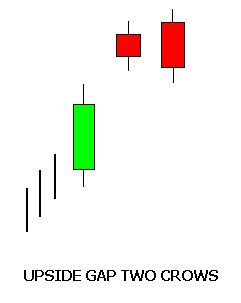
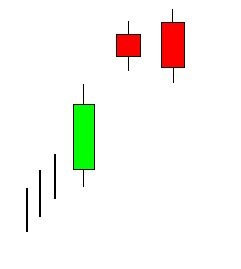
Fix CDL issues

diff --git a/src/charts/indicators/highcharts_custom/cdl3blackcrows.js b/src/charts/indicators/highcharts_custom/cdl3blackcrows.js
@@ -4,42 +4,30 @@
 define(['indicator_base', 'highstock'], function (indicatorBase) {
 
     var cdl3blackcrowsOptionsMap = {}, cdl3blackcrowsSeriesMap = {};
-	
+    var candleMediumHeight = 0;
+
 	function calculateIndicatorValue(data, index) {
-		var candleOne_Index = index, 
+	    var candleOne_Index = index,
 			candleTwo_Index = index - 1,
-			candleThree_Index = index - 2,
-			candleFour_Index = index - 3;
+			candleThree_Index = index - 2;
 		
-		var candleFour_Open = indicatorBase.extractPriceForAppliedTO(indicatorBase.OPEN, data, candleFour_Index),
-			candleFour_Close = indicatorBase.extractPriceForAppliedTO(indicatorBase.CLOSE, data, candleFour_Index),
-			candleThree_Open = indicatorBase.extractPriceForAppliedTO(indicatorBase.OPEN, data, candleThree_Index),
+		var candleThree_Open = indicatorBase.extractPriceForAppliedTO(indicatorBase.OPEN, data, candleThree_Index),
 			candleThree_Close = indicatorBase.extractPriceForAppliedTO(indicatorBase.CLOSE, data, candleThree_Index),
 			candleTwo_Open = indicatorBase.extractPriceForAppliedTO(indicatorBase.OPEN, data, candleTwo_Index),
 			candleTwo_Close = indicatorBase.extractPriceForAppliedTO(indicatorBase.CLOSE, data, candleTwo_Index),
 			candleOne_Open = indicatorBase.extractPriceForAppliedTO(indicatorBase.OPEN, data, candleOne_Index),
 			candleOne_Close = indicatorBase.extractPriceForAppliedTO(indicatorBase.CLOSE, data, candleOne_Index);
 		
-		var isCandleFour_Bullish = candleFour_Close > candleFour_Open,
-			isCandleFour_Bearish = candleFour_Close < candleFour_Open,
-			isCandleThree_Bullish = candleThree_Close > candleThree_Open,
-			isCandleThree_Bearish = candleThree_Close < candleThree_Open,
-			isCandleTwo_Bullish = candleTwo_Close > candleTwo_Open,
+		var	isCandleThree_Bearish = candleThree_Close < candleThree_Open,
 			isCandleTwo_Bearish = candleTwo_Close < candleTwo_Open,
-			isCandleOne_Bullish = candleOne_Close > candleOne_Open,
 			isCandleOne_Bearish = candleOne_Close < candleOne_Open;
 			
-		var isBearishContinuation = isCandleFour_Bullish
-					&& isCandleThree_Bearish 
-					&& isCandleTwo_Bearish && (candleTwo_Open > candleThree_Close && candleTwo_Open < candleThree_Open && candleTwo_Close < candleThree_Close)
-					&& isCandleOne_Bearish && (candleOne_Open > candleTwo_Close && candleOne_Open < candleTwo_Open && candleOne_Close < candleTwo_Close)
-					;
-											
-		var isBullishContinuation = isCandleFour_Bearish
-					&& isCandleThree_Bullish 
-					&& isCandleTwo_Bullish && (candleTwo_Open < candleThree_Close && candleTwo_Open > candleThree_Open && candleTwo_Close > candleThree_Close)
-					&& isCandleOne_Bullish && (candleOne_Open < candleTwo_Close && candleOne_Open > candleTwo_Open && candleOne_Close > candleTwo_Close)
-					;
+		var isBearishContinuation = isCandleThree_Bearish && (Math.abs(candleThree_Close - candleThree_Open) > candleMediumHeight)
+					                && isCandleTwo_Bearish && (Math.abs(candleTwo_Close - candleTwo_Open) > candleMediumHeight) && (candleTwo_Open >= candleThree_Close && candleTwo_Open < candleThree_Open && candleTwo_Close < candleThree_Close)
+					                && isCandleOne_Bearish && (Math.abs(candleOne_Close - candleOne_Open) > candleMediumHeight) && (candleOne_Open >= candleTwo_Close && candleOne_Open < candleTwo_Open && candleOne_Close < candleTwo_Close);
+
+        //It's a bearish cadnlestick
+		var isBullishContinuation = false
 		
 		return {
 			isBullishContinuation : isBullishContinuation,
@@ -62,10 +50,6 @@ define(['indicator_base', 'highstock'], function (indicatorBase) {
                     //Merge the options
                     var seriesID = this.options.id;
                     cdl3blackcrowsOptions = $.extend({
-                        //stroke : 'red',
-                        //strokeWidth : 2,
-                        //dashStyle : 'line',
-                        //levels : [],
                         parentSeriesID : seriesID
                     }, cdl3blackcrowsOptions);
 
@@ -81,6 +65,7 @@ define(['indicator_base', 'highstock'], function (indicatorBase) {
                          * Formula(OHLC or Candlestick) -
                             Refer to dl2crows.html for detailed information on this indicator
                          */
+                        candleMediumHeight = indicatorBase.getCandleMediumHeight(data);
                         var cdl3blackcrowsData = [];
                         for (var index = 3; index < data.length; index++)
                         {
@@ -119,12 +104,6 @@ define(['indicator_base', 'highstock'], function (indicatorBase) {
                             name: 'CDL3BLACKCROWS',
                             data: cdl3blackcrowsData,
                             type: 'flags',
-                            //dataGrouping: series.options.dataGrouping,
-                            //yAxis: 'cdl3blackcrows'+ uniqueID,
-                            //opposite: series.options.opposite,
-                            //color: cdl3blackcrowsOptions.stroke,
-                            //lineWidth: cdl3blackcrowsOptions.strokeWidth,
-                            //dashStyle: cdl3blackcrowsOptions.dashStyle,
 							onSeries: seriesID,
 							shape: 'flag',
 							turboThreshold: 0
@@ -209,7 +188,6 @@ define(['indicator_base', 'highstock'], function (indicatorBase) {
                             if (dataPointIndex >= 1) {
                                 //Calculate CDL3BLACKCROWS - start
 								var bull_bear = calculateIndicatorValue(data, dataPointIndex);
-                                //console.log('Roc : ' + cdl3blackcrowsValue);
                                 //Calculate CDL3BLACKCROWS - end
 								var bullBearData = null;
 								if (bull_bear.isBullishContinuation) {

diff --git a/src/charts/indicators/highcharts_custom/cdlupsidegap2crows.js b/src/charts/indicators/highcharts_custom/cdlupsidegap2crows.js
@@ -28,9 +28,9 @@ define(['indicator_base', 'highstock'], function (indicatorBase) {
 
        
         var isBullishContinuation = isCandleThree_Bullish
-                                    && isCandleTwo_Bearish && candleTwo_Close > Math.max(candleThree_Close, candleThree_Open) && candleTwo_Open > Math.max(candleThree_Close, candleThree_Open)// black candle with a body gapping above the prior candle's body.
-                                    && isCandleOne_Bearish && candleOne_Close < candleTwo_Close && candleOne_Open > candleTwo_Open //opening higher than the Day 2 open, but closing below the Day 2 close
-                                    && candleOne_Close > candleThree_Close;// and above the Day 1 close
+                                    && isCandleTwo_Bearish && (candleTwo_Close > Math.max(candleThree_Close, candleThree_Open)) && (candleTwo_Open > Math.max(candleThree_Close, candleThree_Open))// black candle with a body gapping above the prior candle's body.
+                                    && isCandleOne_Bearish && (candleOne_Close < candleTwo_Close && candleOne_Open > candleTwo_Open) //opening higher than the Day 2 open, but closing below the Day 2 close
+                                    && (candleOne_Close > candleThree_Close);// and above the Day 1 close
 
 
         //var isBearishContinuation = isCandleThree_Bearish
@@ -73,27 +73,18 @@ define(['indicator_base', 'highstock'], function (indicatorBase) {
                          * Formula(OHLC or Candlestick) -
                          */
                         var cdlupsidegap2crowsData = [];
-                        for (var index =2 ; index < data.length; index++) {
-                            
+                        for (var index = 2 ; index < data.length; index++) {
+
                             //Calculate CDLUPSIDEGAP2CROWS - start
                             var bull_bear = calculateIndicatorValue(data, index);
-							
+
                             if (bull_bear.isBullishContinuation) {
                                 cdlupsidegap2crowsData.push({
                                     x: data[index].x || data[index][0],
-                                    title: '<span style="color : blue">GTC</span>',
+                                    title: '<span style="color : blue">UGTC</span>',
                                     text: 'Upside Gap Two Crows : Bull'
                                 });
                             };
-                            //if (bull_bear.isBearishContinuation) {
-                            //    cdlupsidegap2crowsData.push({
-                            //        x : data[index].x || data[index][0],
-                            //        title: '<span style="color : red">GTC</span>',
-                            //        text : 'Upside Gap Two Crows : Bear'
-                            //    });
-                            //}
-                            //Calculate CDLUPSIDEGAP2CROWS - end
-
                         }
 
                         var chart = this.chart;
@@ -194,18 +185,10 @@ define(['indicator_base', 'highstock'], function (indicatorBase) {
                                 if (bull_bear.isBullishContinuation) {
                                     bullBearData = {
                                         x: data[dataPointIndex].x || data[dataPointIndex][0],
-                                        title: '<span style="color : blue">GTC</span>',
+                                        title: '<span style="color : blue">UGTC</span>',
                                         text: 'Upside Gap Two Crows : Bull'
                                     }
                                 };
-                                //if (bull_bear.isBearishContinuation) {
-                                //    bullBearData = {
-                                //        x: data[dataPointIndex].x || data[dataPointIndex][0],
-                                //        title: '<span style="color : red">GTC</span>',
-                                //        text: 'Upside Gap Two Crows : Bear'
-                                //    }
-                                //};
-
 
                                 var whereToUpdate = -1;
                                 for (var sIndx = cdlupsidegap2crowsSeriesMap[key].data.length - 1; sIndx >= 0 ; sIndx--) {

diff --git a/src/charts/indicators/highcharts_custom/cdl3whitesoldiers.js b/src/charts/indicators/highcharts_custom/cdl3whitesoldiers.js
@@ -4,6 +4,7 @@
 define(['indicator_base', 'highstock'], function (indicatorBase) {
 
     var cdl3whitesoldiersOptionsMap = {}, cdl3whitesoldiersSeriesMap = {};
+    var candleMediumHeight = 0;
 
 	function calculateIndicatorValue(data, index) {
 		var candleOne_Index = index;
@@ -11,35 +12,24 @@ define(['indicator_base', 'highstock'], function (indicatorBase) {
 		var candleThree_Index = index - 2;
 
 		var candleThree_Open = indicatorBase.extractPriceForAppliedTO(indicatorBase.OPEN, data, candleThree_Index),
-  			candleThree_Close = indicatorBase.extractPriceForAppliedTO(indicatorBase.CLOSE, data, candleThree_Index),
-        candleThree_Low = indicatorBase.extractPriceForAppliedTO(indicatorBase.LOW, data, candleThree_Index)
-      ;
+  			candleThree_Close = indicatorBase.extractPriceForAppliedTO(indicatorBase.CLOSE, data, candleThree_Index);
+      
 		var candleTwo_Open = indicatorBase.extractPriceForAppliedTO(indicatorBase.OPEN, data, candleTwo_Index),
-        candleTwo_Close = indicatorBase.extractPriceForAppliedTO(indicatorBase.CLOSE, data, candleTwo_Index),
-        candleTwo_Low = indicatorBase.extractPriceForAppliedTO(indicatorBase.LOW, data, candleTwo_Index)
-      ;
+            candleTwo_Close = indicatorBase.extractPriceForAppliedTO(indicatorBase.CLOSE, data, candleTwo_Index);
+
 		var candleOne_Open = indicatorBase.extractPriceForAppliedTO(indicatorBase.OPEN, data, candleOne_Index),
-  			candleOne_Close = indicatorBase.extractPriceForAppliedTO(indicatorBase.CLOSE, data, candleOne_Index),
-        candleOne_Low = indicatorBase.extractPriceForAppliedTO(indicatorBase.LOW, data, candleOne_Index),
-        candleOne_High = indicatorBase.extractPriceForAppliedTO(indicatorBase.HIGH, data, candleOne_Index)
-      ;
+  			candleOne_Close = indicatorBase.extractPriceForAppliedTO(indicatorBase.CLOSE, data, candleOne_Index);
 
-		var isCandleThree_Bullish = candleThree_Close > candleThree_Open,
-			isCandleThree_Bearish = candleThree_Close < candleThree_Open;
-		var isCandleTwo_Bullish = candleTwo_Close > candleTwo_Open,
-			isCandleTwo_Bearish = candleTwo_Close < candleTwo_Open;
-		var isCandleOne_Bullish = candleOne_Close > candleOne_Open,
-			isCandleOne_Bearish = candleOne_Close < candleOne_Open;
+		var isCandleThree_Bullish = candleThree_Close > candleThree_Open;
+		var isCandleTwo_Bullish = candleTwo_Close > candleTwo_Open;
+		var isCandleOne_Bullish = candleOne_Close > candleOne_Open;
 
-		var isBearishContinuation = isCandleThree_Bullish
-					&& isCandleTwo_Bullish && (candleTwo_Open > candleThree_Open && candleTwo_Open < candleThree_Close)
-					&& isCandleOne_Bullish && (candleOne_Open > candleTwo_Open && candleOne_Open < candleTwo_Close)
-					;
+		var isBullishContinuation = isCandleThree_Bullish  && (Math.abs(candleThree_Close-candleThree_Open) > candleMediumHeight)
+				                	&& isCandleTwo_Bullish && (Math.abs(candleTwo_Close - candleTwo_Open) > candleMediumHeight) && (candleTwo_Open > candleThree_Open && candleTwo_Open <= candleThree_Close && candleTwo_Close > candleThree_Close)
+					                && isCandleOne_Bullish && (Math.abs(candleOne_Close - candleOne_Open) > candleMediumHeight) && (candleOne_Open > candleTwo_Open && candleOne_Open <= candleTwo_Close && candleOne_Close > candleTwo_Close);
 
-		var isBullishContinuation = isCandleThree_Bearish
-          && isCandleTwo_Bearish && (candleTwo_Open < candleThree_Open && candleTwo_Open > candleThree_Close)
-          && isCandleOne_Bearish && (candleOne_Open < candleTwo_Open && candleOne_Open > candleTwo_Close)
-					;
+        //Is bullish only
+		var isBearishContinuation = false;
 
 		return {
 			isBullishContinuation : isBullishContinuation,
@@ -81,6 +71,7 @@ define(['indicator_base', 'highstock'], function (indicatorBase) {
                          * Formula(OHLC or Candlestick) -
                             Refer to dl2crows.html for detailed information on this indicator
                          */
+                        candleMediumHeight = indicatorBase.getCandleMediumHeight(data);
                         var cdl3whitesoldiersData = [];
                         for (var index = 2; index < data.length; index++)
                         {

diff --git a/src/charts/indicators/highcharts_custom/cdl3inside.js b/src/charts/indicators/highcharts_custom/cdl3inside.js
@@ -4,7 +4,8 @@
 define(['indicator_base', 'highstock'], function (indicatorBase) {
 
     var cdl3insideOptionsMap = {}, cdl3insideSeriesMap = {};
-	
+    var candleMediumHeight = 0;
+
 	function calculateIndicatorValue(data, index) {
 		var candleOne_Index = index;
 		var candleTwo_Index = index - 1;
@@ -24,15 +25,15 @@ define(['indicator_base', 'highstock'], function (indicatorBase) {
 		var isCandleOne_Bullish = candleOne_Close > candleOne_Open,
 			isCandleOne_Bearish = candleOne_Close < candleOne_Open;
 			
-		var isBearishContinuation = isCandleThree_Bullish 
+		var candleThreeBodySize = Math.abs(candleThree_Close - candleThree_Open);
+
+		var isBearishContinuation = isCandleThree_Bullish && (candleThreeBodySize > candleMediumHeight)
 					&& isCandleTwo_Bearish && (candleTwo_Close >= (candleThree_Close - Math.abs(candleThree_Open - candleThree_Close) / 2) /*&& candleTwo_Close > candleThree_Close*/)
-					&& isCandleOne_Bearish && (candleOne_Close < candleThree_Open)
-					;
+					&& isCandleOne_Bearish && (candleOne_Close < candleThree_Open);
 											
-		var isBullishContinuation = isCandleThree_Bearish
+		var isBullishContinuation = isCandleThree_Bearish && (candleThreeBodySize > candleMediumHeight)
 					&& isCandleTwo_Bullish && (candleTwo_Close <= (candleThree_Close + Math.abs(candleThree_Open - candleThree_Close) / 2) /*&& candleTwo_Close < candleThree_Close*/)
-					&& isCandleOne_Bullish && (candleOne_Close > candleThree_Open)
-					;
+					&& isCandleOne_Bullish && (candleOne_Close > candleThree_Open);
 		
 		return {
 			isBullishContinuation : isBullishContinuation,
@@ -55,10 +56,6 @@ define(['indicator_base', 'highstock'], function (indicatorBase) {
                     //Merge the options
                     var seriesID = this.options.id;
                     cdl3insideOptions = $.extend({
-                        //stroke : 'red',
-                        //strokeWidth : 2,
-                        //dashStyle : 'line',
-                        //levels : [],
                         parentSeriesID : seriesID
                     }, cdl3insideOptions);
 
@@ -74,6 +71,7 @@ define(['indicator_base', 'highstock'], function (indicatorBase) {
                          * Formula(OHLC or Candlestick) -
                             Refer to dl2crows.html for detailed information on this indicator
                          */
+                        candleMediumHeight = indicatorBase.getCandleMediumHeight(data);
                         var cdl3insideData = [];
                         for (var index = 2; index < data.length; index++)
                         {
@@ -112,12 +110,6 @@ define(['indicator_base', 'highstock'], function (indicatorBase) {
                             name: 'CDL3INSIDE',
                             data: cdl3insideData,
                             type: 'flags',
-                            //dataGrouping: series.options.dataGrouping,
-                            //yAxis: 'cdl3inside'+ uniqueID,
-                            //opposite: series.options.opposite,
-                            //color: cdl3insideOptions.stroke,
-                            //lineWidth: cdl3insideOptions.strokeWidth,
-                            //dashStyle: cdl3insideOptions.dashStyle,
 							onSeries: seriesID,
 							shape: 'flag',
 							turboThreshold: 0
@@ -202,7 +194,6 @@ define(['indicator_base', 'highstock'], function (indicatorBase) {
                             if (dataPointIndex >= 1) {
                                 //Calculate CDL3INSIDE - start
 								var bull_bear = calculateIndicatorValue(data, dataPointIndex);
-                                //console.log('Roc : ' + cdl3insideValue);
                                 //Calculate CDL3INSIDE - end
 								var bullBearData = null;
 								if (bull_bear.isBullishContinuation) {

diff --git a/src/charts/indicators/highcharts_custom/cdl2crows.js b/src/charts/indicators/highcharts_custom/cdl2crows.js
@@ -24,19 +24,18 @@ define(['indicator_base', 'highstock'], function (indicatorBase) {
 		var isCandleOne_Bullish = candleOne_Close > candleOne_Open,
 			isCandleOne_Bearish = candleOne_Close < candleOne_Open;
 			
-		var isBearishContinuation = isCandleThree_Bullish 
-					&& isCandleTwo_Bearish && (candleTwo_Open > candleThree_Close && candleTwo_Close > candleThree_Close)
-					&& isCandleOne_Bearish
-						&& (candleOne_Open < candleTwo_Open && candleOne_Open > candleTwo_Close) //opens within the prior candle's body
-						&& (candleOne_Close < candleThree_Close && candleOne_Close > candleThree_Open) //and closes within the body of the first candle in the pattern
-					;
+		var isBearishContinuation = isCandleThree_Bullish
+					                && isCandleTwo_Bearish && (candleTwo_Open > candleThree_Close && candleTwo_Close > candleThree_Close)
+					                && isCandleOne_Bearish
+						            && (candleOne_Open < candleTwo_Open && candleOne_Open > candleTwo_Close) //opens within the prior candle's body
+						            && (candleOne_Close < candleThree_Close && candleOne_Close > candleThree_Open); //and closes within the body of the first candle in the pattern
 											
 		var isBullishContinuation = isCandleThree_Bearish
-				&& isCandleTwo_Bullish && (candleTwo_Open < candleThree_Close && candleTwo_Close < candleThree_Close)
-				&& isCandleOne_Bullish
-				&& (candleOne_Open > candleTwo_Open && candleOne_Open < candleTwo_Close) //opens within the prior candle's body
-				&& (candleOne_Close > candleThree_Close && candleOne_Close < candleThree_Open) //and closes within the body of the first candle in the pattern
-			;
+				                    && isCandleTwo_Bullish && (candleTwo_Open < candleThree_Close && candleTwo_Close < candleThree_Close)
+				                    && isCandleOne_Bullish
+				                    && (candleOne_Open > candleTwo_Open && candleOne_Open < candleTwo_Close) //opens within the prior candle's body
+				                    && (candleOne_Close > candleThree_Close && candleOne_Close < candleThree_Open); //and closes within the body of the first candle in the pattern
+			
 		
 		return {
 			isBullishContinuation : isBullishContinuation,

diff --git a/src/charts/indicators/cdl3starssouth/cdl3starssouth.html b/src/charts/indicators/cdl3starssouth/cdl3starssouth.html
@@ -3,16 +3,14 @@
 		<tr>
 			<td>
 	        	<p>
-              Look for a tall black candle with a long lower shadow to appear in a
-              downward price trend. The second day should be similar to the first
-              day, but smaller and with a higher low. The last day is a black marubozu
-              that squeezes inside the high-low range of the prior day.
+                  Look for a tall black candle with a long lower shadow to appear in a downward price trend. The second day should be similar to the first day, but smaller and with a higher low. The last day is a black marubozu
+                  that squeezes inside the high-low range of the prior day.
 		        </p>
 			</td>
 		</tr>
         <tr>
 			<td align="center">
-		        <img src="images/indicators/three_stars_south.png" height='25%' width='50%'>
+                <img src="images/indicators/three_stars_in_the_south.png" height='50%' width='40%'>
 			</td>
 		</tr>
 	</table>

diff --git a/src/charts/indicators/cdlupsidegap2crows/cdlupsidegap2crows.html b/src/charts/indicators/cdlupsidegap2crows/cdlupsidegap2crows.html
@@ -11,7 +11,7 @@
         </tr>
         <tr>
         <td align="center">
-            <img src="images/indicators/two_crows.png" height='100%' width='100%'>
+            <img src="images/indicators/upside_gap_two_crows.png" height='60%' width='50%'>
         </td>
         </tr>
     </table>

diff --git a/src/charts/indicators/cdl2crows/cdl2crows.html b/src/charts/indicators/cdl2crows/cdl2crows.html
@@ -11,7 +11,7 @@
 		</tr>
         <tr>
 			<td align="center">
-		        <img src="images/indicators/two_crows.png">
+                <img src="images/indicators/two_crows.png" height='70%' width='40%'>
 			</td>
 		</tr>
 	</table>
